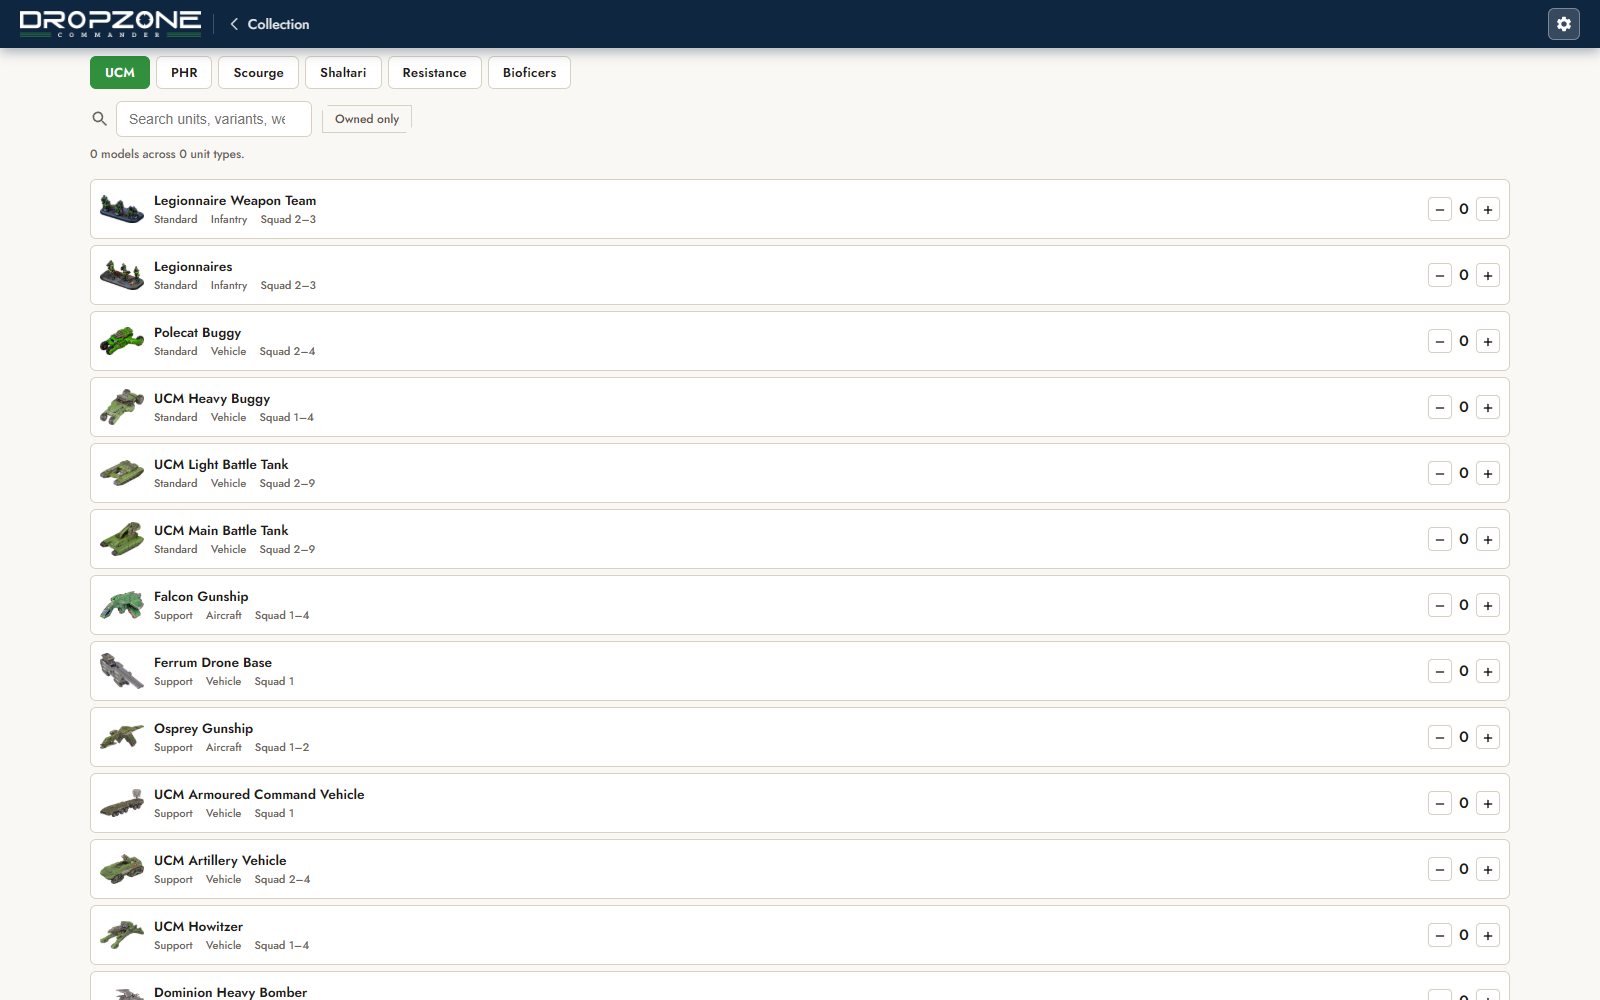
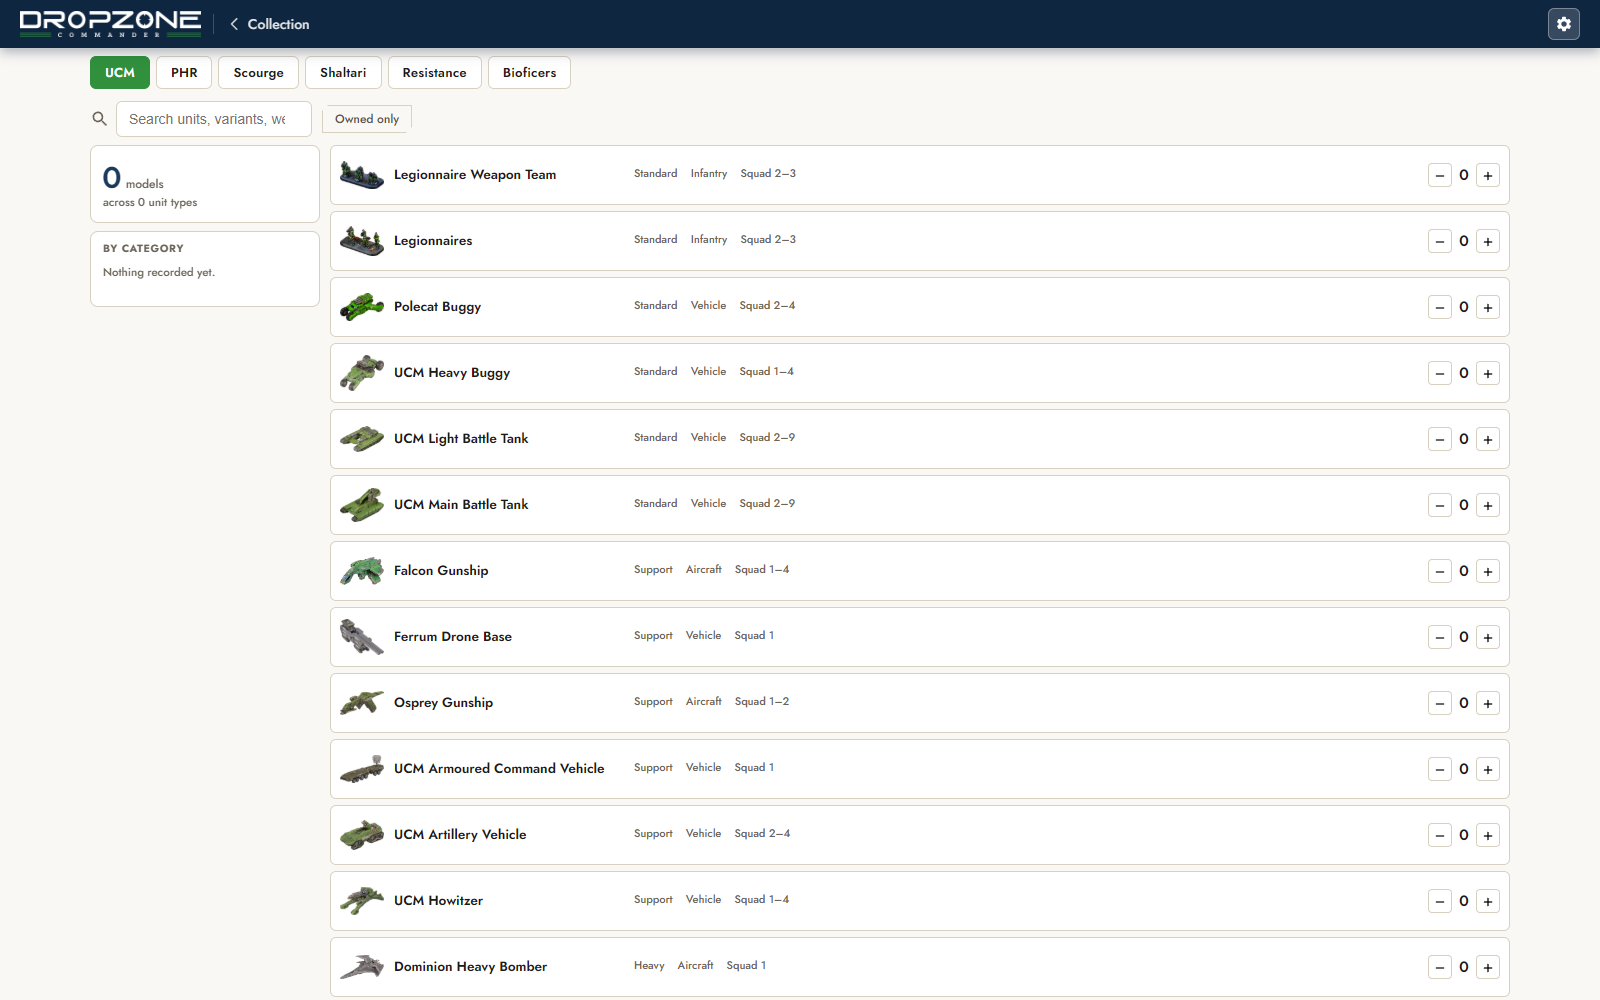
Collection keeps panes
The last of the four views still scrolling as one column. What you own is a
standing total you glance at while working down a 178-row list, so it belongs
in a rail that stays put — at the top it scrolled away on the first flick.

Model count and unit types in one card, owned models by category in the next,
and categories you own nothing from are simply absent rather than printing a
row of zeroes.

That is HANDOFF §2.2 done across all four: builder, Play, Collection and the
reference. Desktop keeps panes; below 900 every one of them folds back to a
single column.

diff --git a/js/dzc-collection.js b/js/dzc-collection.js
@@ -15,6 +15,9 @@
   let owned = {};          // { faction: { unitId: count } }
   let state = { faction: 'ucm', search: '', ownedOnly: false };
 
+  // Force-organisation order (3.2), same list the reference uses.
+  const CATEGORIES = ['Standard', 'Vanguard', 'Heavy', 'Support', 'Transport', 'Generated'];
+
   const FACTIONS = [
     { id: 'ucm', name: 'UCM', accent: '#30903c' },
     { id: 'phr', name: 'PHR', accent: '#c9a92c' },
@@ -106,7 +109,26 @@
         <button type="button" class="dzc-chip${state.ownedOnly ? ' is-active' : ''}"
                 onclick="DZCCollection.toggleOwned()">Owned only</button>
       </div>
-      <p class="dzc-count">${totals} model${totals === 1 ? '' : 's'} across ${kinds} unit type${kinds === 1 ? '' : 's'}.</p>
+
+      <!-- Panes on a desktop, like the builder and Play. What you own is a
+           standing total you glance at while scrolling a long list; putting it
+           at the top meant it scrolled away immediately. -->
+      <div class="dzc-coll-body">
+        <aside class="dzc-coll-rail">
+          <div class="dzc-rail-card">
+            <div class="dzc-rail-pts"><b>${totals}</b><span>model${totals === 1 ? '' : 's'}</span></div>
+            <p class="dzc-rail-line">across ${kinds} unit type${kinds === 1 ? '' : 's'}</p>
+          </div>
+          <div class="dzc-rail-card">
+            <div class="dzc-rail-title">By category</div>
+            <div class="dzc-ratios">${CATEGORIES.map(c => {
+              const n = f.units.filter(u => u.category === c)
+                .reduce((t, u) => t + count(state.faction, u.id), 0);
+              return n ? `<div class="dzc-ratio"><span>${esc(c)}</span><b>${n}</b></div>` : '';
+            }).join('') || '<p class="dzc-rail-line">Nothing recorded yet.</p>'}</div>
+          </div>
+        </aside>
+        <div class="dzc-coll-main">
 
       <div class="dzc-coll-list">${units.map(u => {
         const n = count(state.faction, u.id);
@@ -124,6 +146,8 @@
           </span>
         </div>`;
       }).join('') || '<p class="dzc-empty">Nothing matches.</p>'}</div>
+    </div>
+      </div>
     </div>`;
   }
 

diff --git a/css/dzc.css b/css/dzc.css
@@ -125,6 +125,17 @@
 .dzc-stats { border-radius: 0; }
 .dzc-stats .dzc-stat { border-radius: 0; }
 
+/* Collection keeps panes: the running totals stay put while a 178-row list
+   scrolls beside them. */
+.dzc-coll-body { display: grid; grid-template-columns: 230px minmax(0, 1fr); gap: 10px; align-items: start; }
+.dzc-coll-rail { position: sticky; top: 12px; display: flex; flex-direction: column; gap: 8px; }
+.dzc-coll-main { min-width: 0; }
+@media (max-width: 900px) {
+  .dzc-coll-body { grid-template-columns: 1fr; }
+  .dzc-coll-rail { position: static; flex-direction: row; flex-wrap: wrap; }
+  .dzc-coll-rail .dzc-rail-card { flex: 1 1 200px; }
+}
+
 /* ── rule chips ── */
 .dzc-rule {
   display: inline-block; margin: 2px 3px 2px 0; padding: 2px 7px; cursor: pointer;
